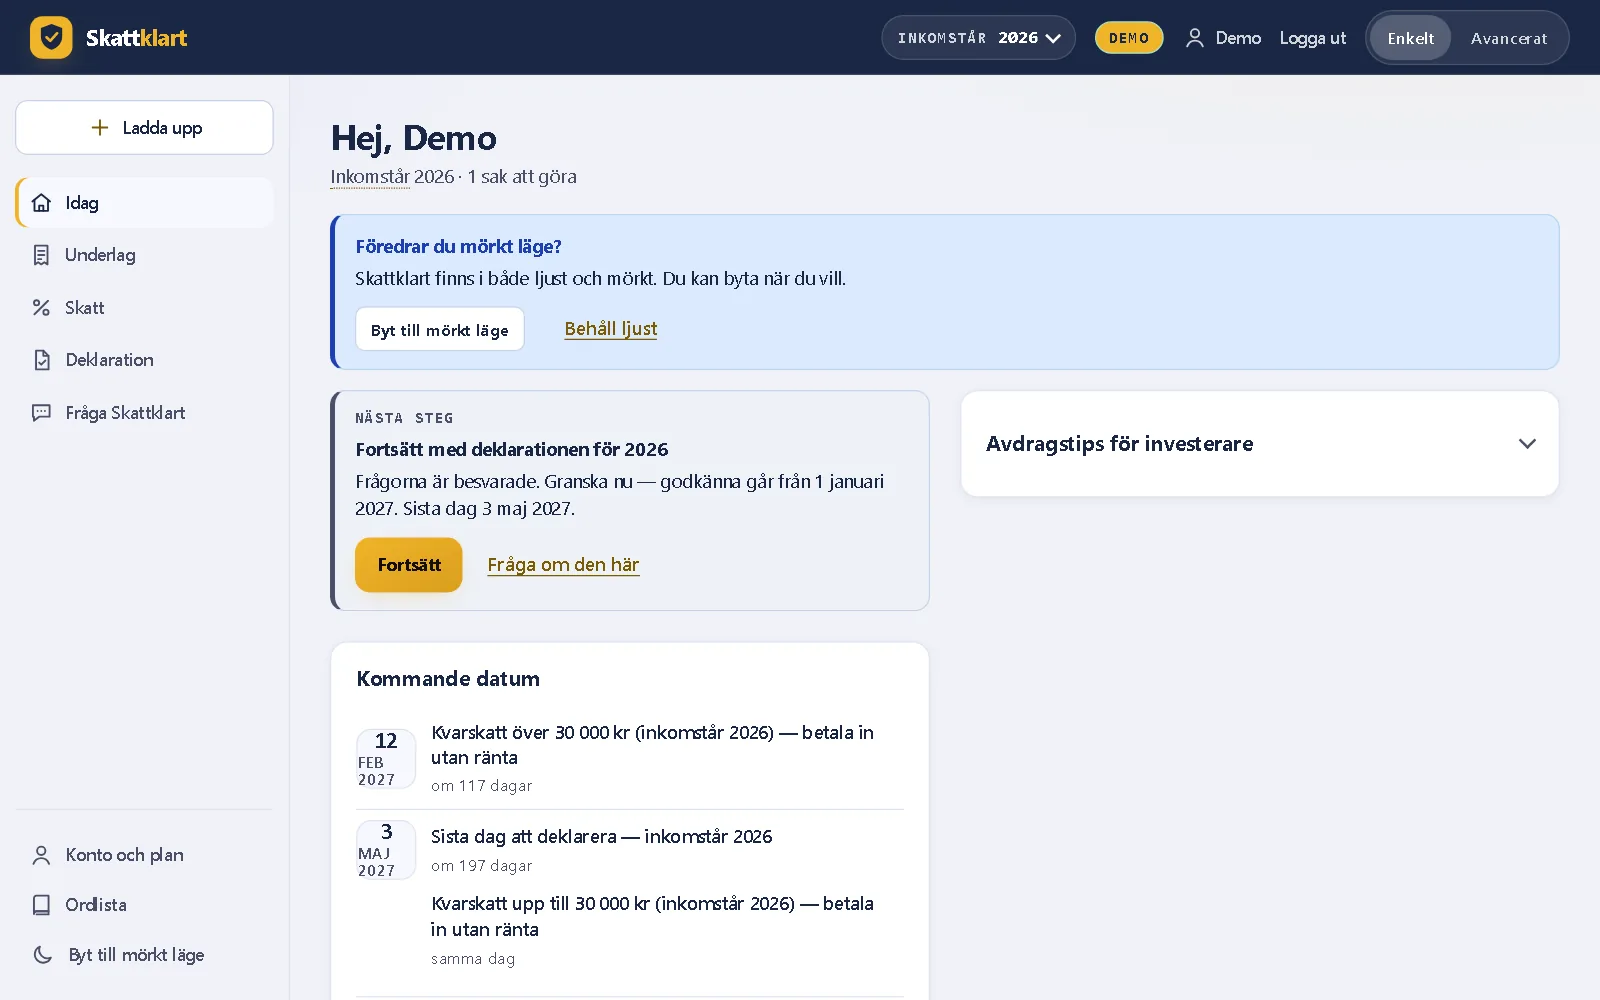
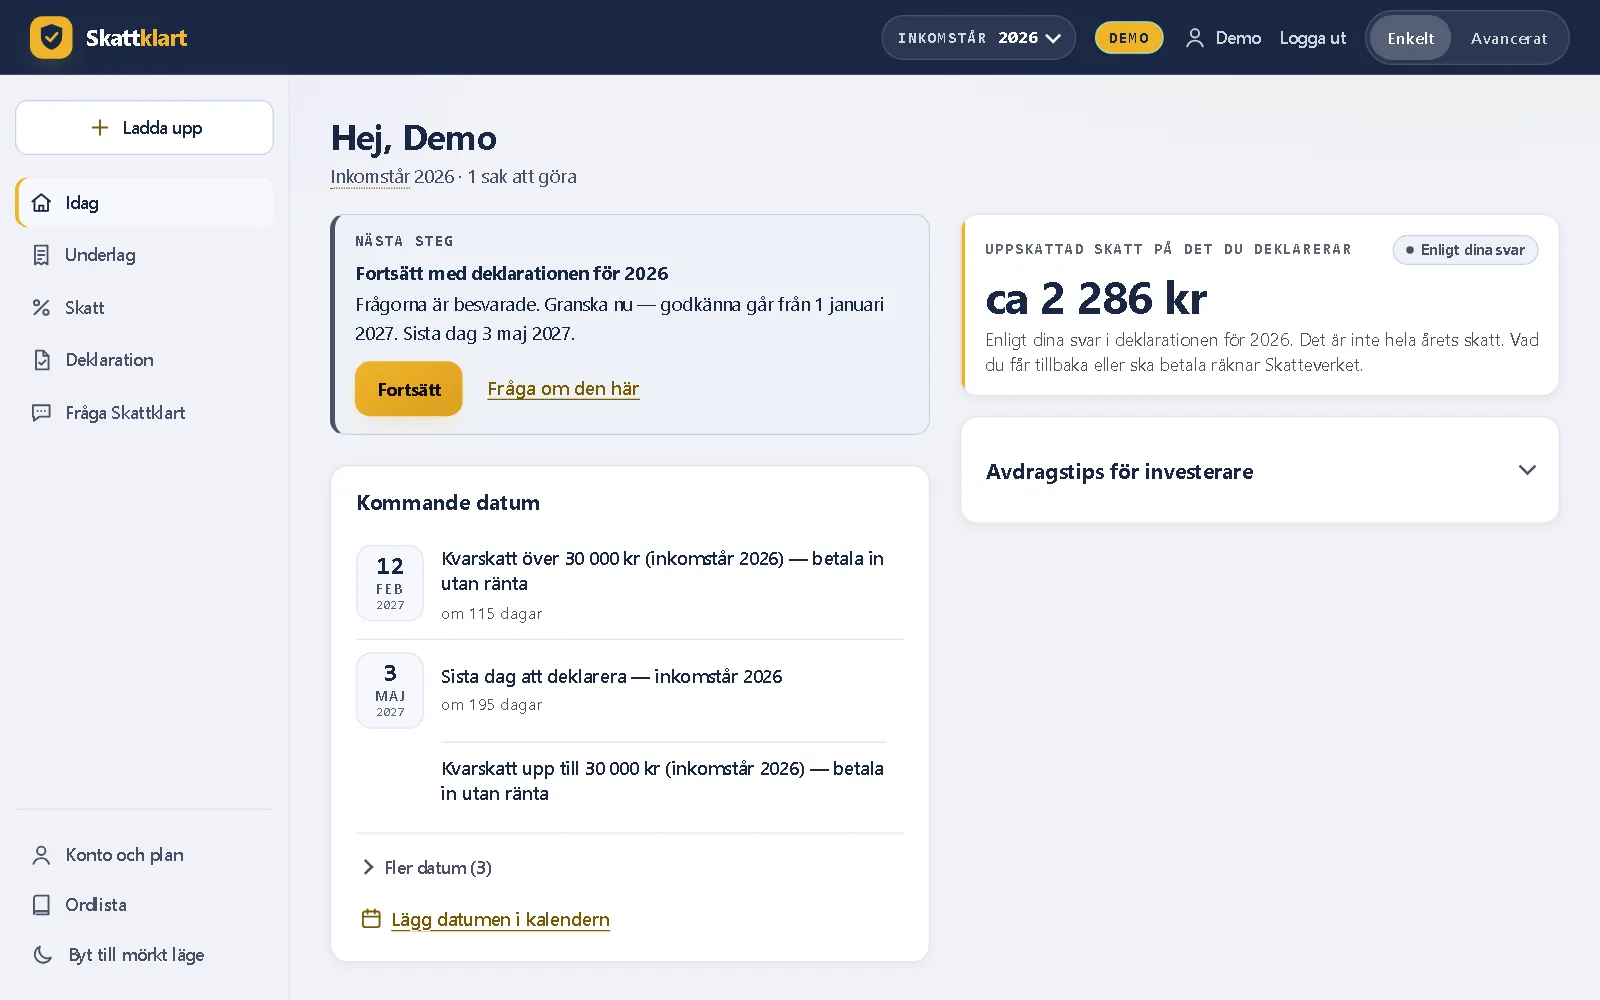
Produktbilderna omtagna: nya datumkortet och uppskattad skatt syns
ta_bilder: temavalet skrivs alltid ut (profilmappen delas i en körning, så
ett sparat 'light' låg kvar i den mörka bilden). E-handel saknar egen
demoversion i appen och tas på konsultens.

Claude-Session: https://claude.ai/code/session_01PeyRQUw1c8p99QpprDLsTP

diff --git a/ta_bilder.py b/ta_bilder.py
@@ -32,6 +32,9 @@ PORT = 9341
 #     set SKATTKLART_BILDBAS=http://127.0.0.1:5050
 DEMO = os.environ.get("SKATTKLART_BILDBAS", "https://demo.skattklart.se").rstrip("/") + "/demo-login?exempel=%s"
 B, H, SKALA = 1280, 800, 1.25
+# Profiler utan egen demoversion i appen (demo_login skickar dem till väljaren /demo): bilden tas
+# på närmaste version. E-handel = enskild firma med moms, som konsulten.
+BILDPROFIL = {"ehandel": "konsult"}
 
 
 async def ta(ws_url, url, mork):
@@ -48,9 +51,11 @@ async def ta(ws_url, url, mork):
 
         await be("Page.enable")
         await be("Emulation.setDeviceMetricsOverride", width=B, height=H, deviceScaleFactor=SKALA, mobile=False)
+        # Valet skrivs ALLTID ut: profilmappen delas av alla bilder i en körning, så ett sparat
+        # 'light' från förra bilden låg annars kvar i den mörka (2026-10-20).
         await be("Page.addScriptToEvaluateOnNewDocument", source=(
             "try{localStorage.setItem('skattklart-tema-tips','1');"
-            + ("" if mork else "localStorage.setItem('skattklart-tema','light');") + "}catch(e){}"))
+            "localStorage.setItem('skattklart-tema','%s');}catch(e){}" % ("dark" if mork else "light")))
         await be("Page.navigate", url=url)
         await asyncio.sleep(6)
         tema = (await be("Runtime.evaluate", expression="document.documentElement.getAttribute('data-theme')")
@@ -79,7 +84,7 @@ def en_bild(slug, profil, mork):
         else:
             raise RuntimeError("chrome svarade inte på felsökningsporten")
         mal = next(t for t in flikar if t.get("type") == "page")
-        tema, png = asyncio.run(ta(mal["webSocketDebuggerUrl"], DEMO % profil, mork))
+        tema, png = asyncio.run(ta(mal["webSocketDebuggerUrl"], DEMO % BILDPROFIL.get(profil, profil), mork))
     finally:
         subprocess.run(["taskkill", "/F", "/T", "/PID", str(p.pid)], capture_output=True)
         # Vänta in processen: utan wait() varnar Python "subprocess ... is still running"
